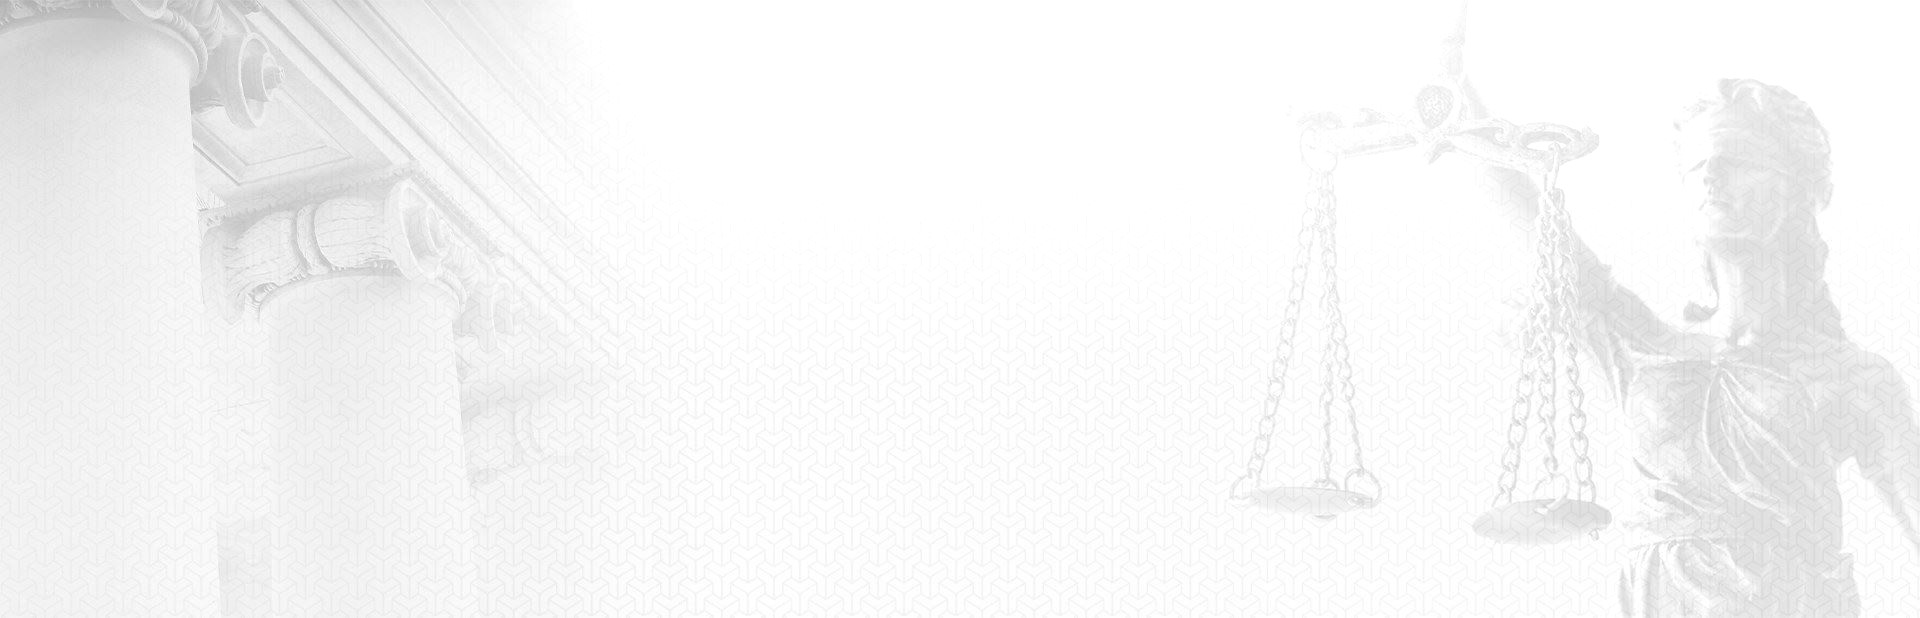
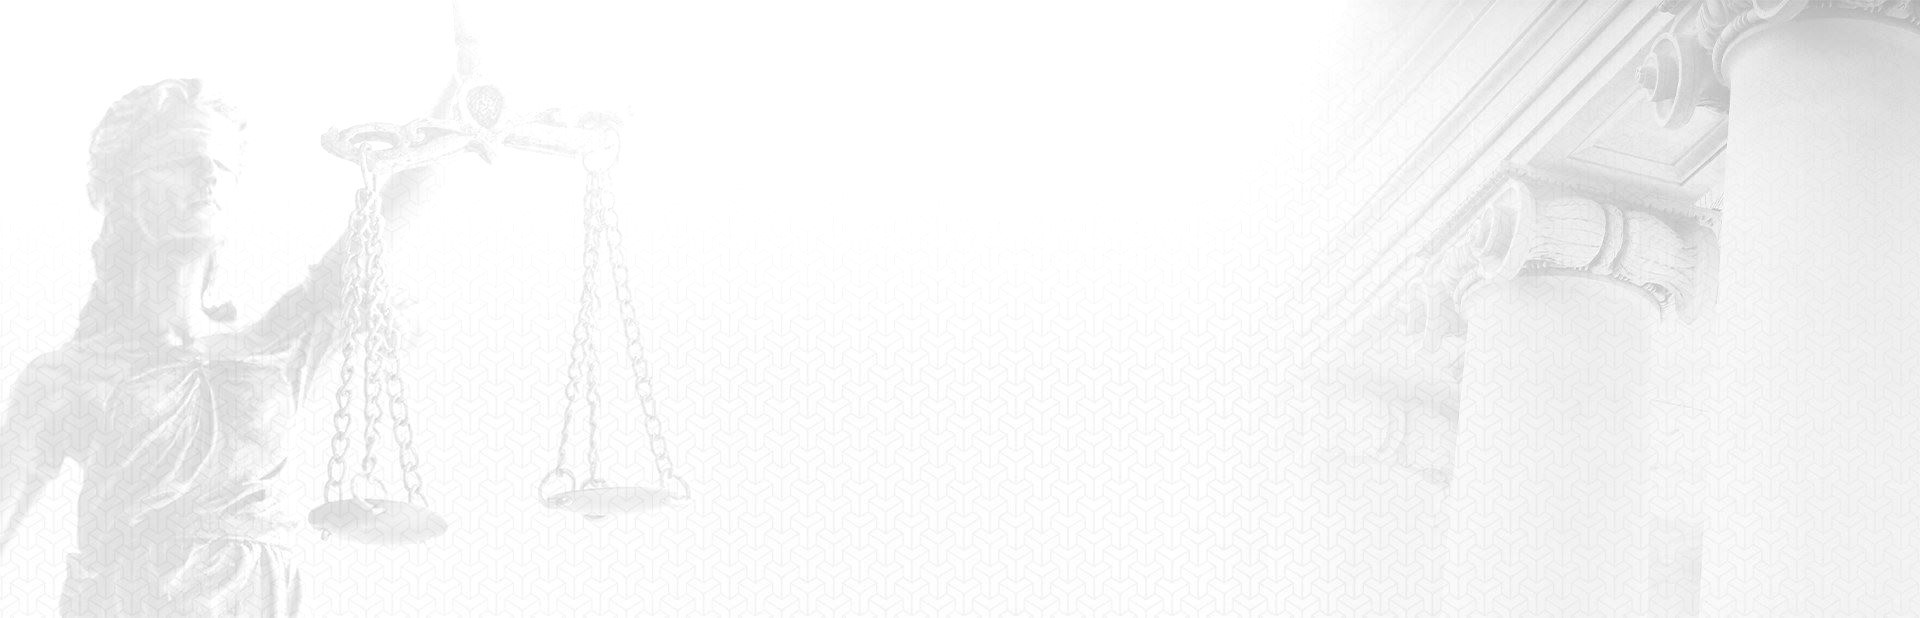
fix responsivity

diff --git a/src/components/footer.tsx b/src/components/footer.tsx
@@ -6,49 +6,40 @@ export const Footer = () => {
    return (
       <footer className="w-full bg-gray-900 px-3 py-10">
          <div className="container mx-auto flex flex-col justify-center items-center">
-            <div className="flex gap-10 flex-col sm:flex-row sm:justify-between w-full text-white">
+            <div className="grid grid-cols-1 sm:grid-cols-3 gap-10 w-full text-white">
                <div className="flex flex-col gap-5 justify-start items-start">
-                  <p className="text-xl font-bold">Advogado <br />
-                     Antonio Lopes</p>
+                  <p className="text-xl font-bold">Advogado <br /> Antonio Lopes</p>
                   <p>marque uma consulta comigo pelo whatsapp.</p>
                   <Button text="Contratar" className="font-semibold" />
                   <ul className="flex flex-col gap-5">
-                     <li className="flex gap-3 items-center"><FaPhone className="fill-[var(--primary-color)] size-5" /> (11) 999999999</li>
+                     <li className="flex gap-3 items-center">
+                        <FaPhone className="fill-[var(--primary-color)] size-5" /> (11) 999999999
+                     </li>
                   </ul>
                </div>
-               <div>
-                  <p className="text-xl font-bold mb-5">Links</p>
-                  <ul className="flex flex-col gap-3">
-                     <li><a href="#hero" className="hover:underline">Início</a></li>
-                     <li><a href="#about" className="hover:underline">Sobre</a></li>
-                     <li><a href="#services" className="hover:underline">Serviços</a></li>
-                     <li><a href="#testimonials" className="hover:underline">Avaliações</a></li>
-                     <li><a href="#local" className="hover:underline">Local</a></li>
-                  </ul>
-               </div>
-               <div>
-                  <p className="text-xl font-bold mb-5">Links</p>
-                  <ul className="flex flex-col gap-3">
-                     <li>
-                        <a href="#hero" className="hover:underline flex items-center gap-2 w-fit">
-                        <FaInstagram className="size-5 fill-[var(--primary-color)]" /> Instagram</a>
-                     </li>
-                     <li>
-                        <a href="#about" className="hover:underline flex items-center gap-2 w-fit">
-                        <FaLinkedin className="size-5 fill-[var(--primary-color)]" /> Linkedin</a>
-                     </li>
-                     <li>
-                        <a href="#services" className="hover:underline flex items-center gap-2 w-fit">
-                        <FaTwitter className="size-5 fill-[var(--primary-color)]" /> Twitter</a>
-                     </li>
-                     <li>
-                        <a href="#testimonials" className="hover:underline flex items-center gap-2 w-fit">
-                        <FaTiktok className="size-5 fill-[var(--primary-color)]" /> Tiktok</a>
-                     </li>
-                  </ul>
+               <div className="grid grid-cols-2 gap-5 sm:col-span-2 sm:grid-cols-2">
+                  <div>
+                     <p className="text-xl font-bold mb-5">Links</p>
+                     <ul className="flex flex-col gap-3">
+                        <li><a href="#hero" className="hover:underline">Início</a></li>
+                        <li><a href="#about" className="hover:underline">Sobre</a></li>
+                        <li><a href="#services" className="hover:underline">Serviços</a></li>
+                        <li><a href="#testimonials" className="hover:underline">Avaliações</a></li>
+                        <li><a href="#local" className="hover:underline">Local</a></li>
+                     </ul>
+                  </div>
+                  <div>
+                     <p className="text-xl font-bold mb-5">Links</p>
+                     <ul className="flex flex-col gap-3">
+                        <li><a href="#" className="hover:underline flex items-center gap-2"><FaInstagram className="size-5 fill-[var(--primary-color)]" /> Instagram</a></li>
+                        <li><a href="#" className="hover:underline flex items-center gap-2"><FaLinkedin className="size-5 fill-[var(--primary-color)]" /> Linkedin</a></li>
+                        <li><a href="#" className="hover:underline flex items-center gap-2"><FaTwitter className="size-5 fill-[var(--primary-color)]" /> Twitter</a></li>
+                        <li><a href="#" className="hover:underline flex items-center gap-2"><FaTiktok className="size-5 fill-[var(--primary-color)]" /> Tiktok</a></li>
+                     </ul>
+                  </div>
                </div>
             </div>
-            <div className="mt-10">
+            <div className="mt-10 text-white">
                <p className="text-sm">Desenvolvido por <a href="" className="hover:underline">Guilherme Pereira</a></p>
             </div>
          </div>

diff --git a/src/components/sections/about.tsx b/src/components/sections/about.tsx
@@ -8,25 +8,35 @@ export const About = () => {
       <section id="about" className="bg-zinc-200 text-black pt-[400px] sm:pt-32 pb-8 sm:pb-14">
          <div className="container mx-auto px-3 py-12 pt-7 flex flex-col sm:flex-row gap-5">
             <div className="flex-1">
-               <Secspan text="Sobre" />
-               <h1 className="text-3xl sm:text-4xl font-bold mt-5">Veja mais sobre mim e <br /> minhas <span className="text-[var(--primary-color)]">experiências</span></h1>
-               <p className="my-8">Advogado com registro na OAB/SP [número], especializado em Direito civil e familiar, com foco em
-                  soluções humanas e seguras para situações delicadas como o direto a propriedade, integridade física e mental, divórcios, pensão e guarda de filhos.
+               <Secspan text="Sobre" className="mx-auto sm:mx-0" />
+               <h1 className="text-3xl sm:text-4xl font-bold mt-5 text-center sm:text-start">
+                  Saiba mais sobre mim e <br /> minha <span className="text-[var(--primary-color)]">trajetória profissional</span>
+               </h1>
+
+               <p className="my-8 text-base sm:text-lg">
+                  Advogado regularmente inscrito na OAB/SP sob o número [número], com especialização em Direito Civil e Direito de Família.
+                  Atuo com foco em soluções seguras, humanas e eficazes para questões delicadas, como direito à propriedade, integridade física e emocional, divórcios, pensões alimentícias e guarda de filhos.
                </p>
+
                <div className="grid grid-cols-1 sm:grid-cols-2 gap-3">
-                  <p className="flex gap-3 items-center"><FaArrowRight className="fill-[var(--primary-color)] size-5" />
-                     Lorem, ipsum dolor sit amet consectetur.
+                  <p className="flex gap-3 items-center text-base sm:text-lg">
+                     <FaArrowRight className="fill-[var(--primary-color)] size-7" />
+                     Atendimento personalizado com empatia e responsabilidade.
                   </p>
-                  <p className="flex gap-3 items-center"><FaArrowRight className="fill-[var(--primary-color)] size-5" />
-                     Lorem, ipsum dolor sit amet consectetur.
+                  <p className="flex gap-3 items-center text-base sm:text-lg">
+                     <FaArrowRight className="fill-[var(--primary-color)] size-7" />
+                     Experiência sólida em mediação de conflitos familiares.
                   </p>
-                  <p className="flex gap-3 items-center"><FaArrowRight className="fill-[var(--primary-color)] size-5" />
-                     Lorem, ipsum dolor sit amet consectetur.
+                  <p className="flex gap-3 items-center text-base sm:text-lg">
+                     <FaArrowRight className="fill-[var(--primary-color)] size-7" />
+                     Atuação estratégica em processos de divórcio e guarda.
                   </p>
-                  <p className="flex gap-3 items-center"><FaArrowRight className="fill-[var(--primary-color)] size-5" />
-                     Lorem, ipsum dolor sit amet consectetur.
+                  <p className="flex gap-3 items-center text-base sm:text-lg">
+                     <FaArrowRight className="fill-[var(--primary-color)] size-7" />
+                     Comprometido com a proteção dos direitos e do bem-estar dos meus clientes.
                   </p>
                </div>
+
                <p className="mt-5 text-base sm:text-lg font-semibold text-center sm:text-start">
                   Me ligue para conversarmos
                   <span className="font-bold text-lg sm:text-xl sm:ml-2"> (11)999999999</span>
@@ -34,11 +44,11 @@ export const About = () => {
             </div>
             <div className="flex-1 flex flex-col justify-center items-center">
                <div>
-                  <Image src={'/about-image.jpg'} alt="about-image"
-                     width={480} height={480}
+                  <Image src={'/about.jpg'} alt="about-image"
+                     width={520} height={520}
                      className="rounded-3xl max-w-full border-4 border-[var(--primary-color)]" />
                </div>
-               <div className="flex flex-col sm:flex-row gap-5 mt-10">
+               <div className="flex flex-col sm:flex-row gap-5 mt-10 sm:mt-14 -mb-7">
                   <div className="text-center border-b sm:border-b-0 sm:border-r-2 border-[var(--primary-color-2)] pb-5 sm:pb-0 sm:pr-5">
                      <span className="text-[var(--primary-color-3)] font-extrabold text-3xl">+10</span>
                      <p className="text-lg">anos de experiência</p>

diff --git a/src/components/loading.tsx b/src/components/loading.tsx
@@ -3,7 +3,7 @@ import Image from "next/image"
 export const Loading = ({ visible }: { visible: boolean }) => {
    return (
       <div
-         className={`
+         className={` fixed
             flex justify-center items-center w-full h-screen bg-zinc-900 
             transition-opacity duration-500 
             ${visible ? 'opacity-100 pointer-events-auto' : 'opacity-0 pointer-events-none hidden'}
@@ -16,7 +16,7 @@ export const Loading = ({ visible }: { visible: boolean }) => {
                width={160}
                height={160}
                quality={85}
-               className="block animate-spin w-40"
+               className="pulse-animation block duration-100 w-40"
             />
          </div>
       </div>

diff --git a/src/app/page.tsx b/src/app/page.tsx
@@ -24,7 +24,8 @@ export default function Home() {
       <div className="relative">
          <Loading visible={isLoading} />
          
-         <div className={`${isLoading ? 'opacity-0 pointer-events-none' : 'opacity-100'} transition-opacity duration-500`}>
+         <div className={`${isLoading ? 'opacity-0 pointer-events-none' : 'opacity-100 pointer-events-auto'}
+            transition-opacity duration-500`}>
             <Header />
             <Hero />
             <About />

diff --git a/src/app/globals.css b/src/app/globals.css
@@ -39,7 +39,7 @@ body {
 #about{
   background-image: url('/bg-law.jpg');
   background-size: cover;
-  background-position: right;
+  background-position: left;
   background-repeat: no-repeat;
 }
 .btn{
@@ -75,4 +75,12 @@ body {
   z-index: 10;
   background-color: #979797;
   transition: all 0.2s ease;
+}
+.pulse-animation{
+  animation: pulse 1.2s ease-in-out infinite;
+}
+@keyframes pulse {
+  50% {
+    opacity: 0.5;
+  }
 }
